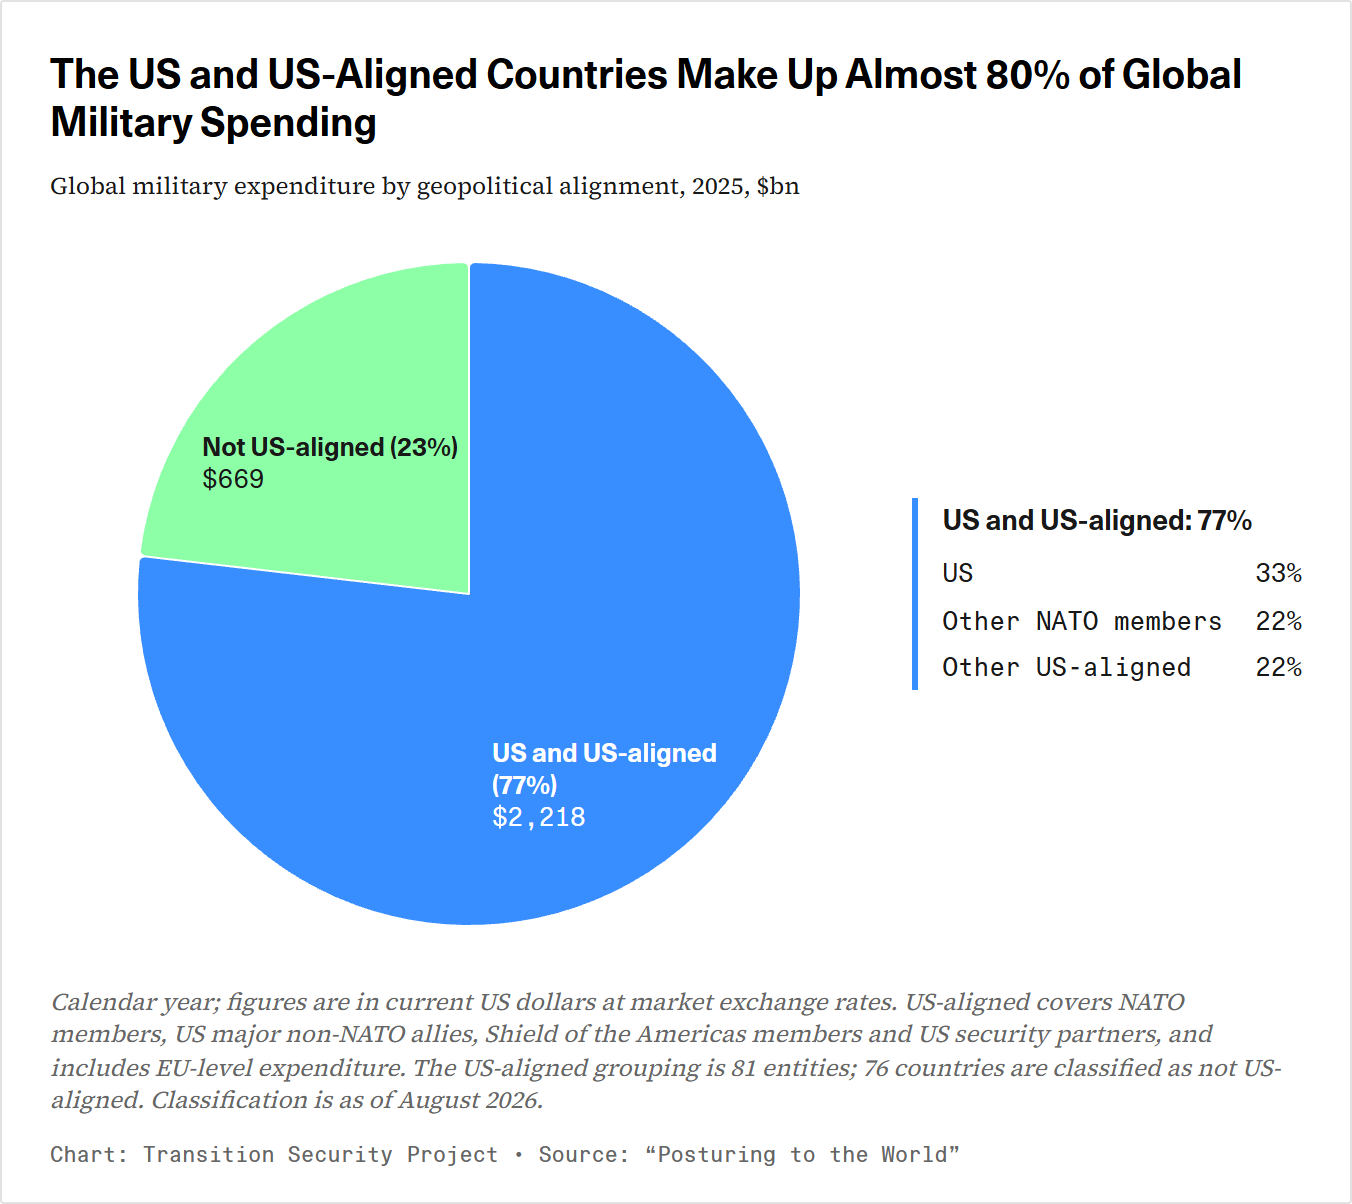
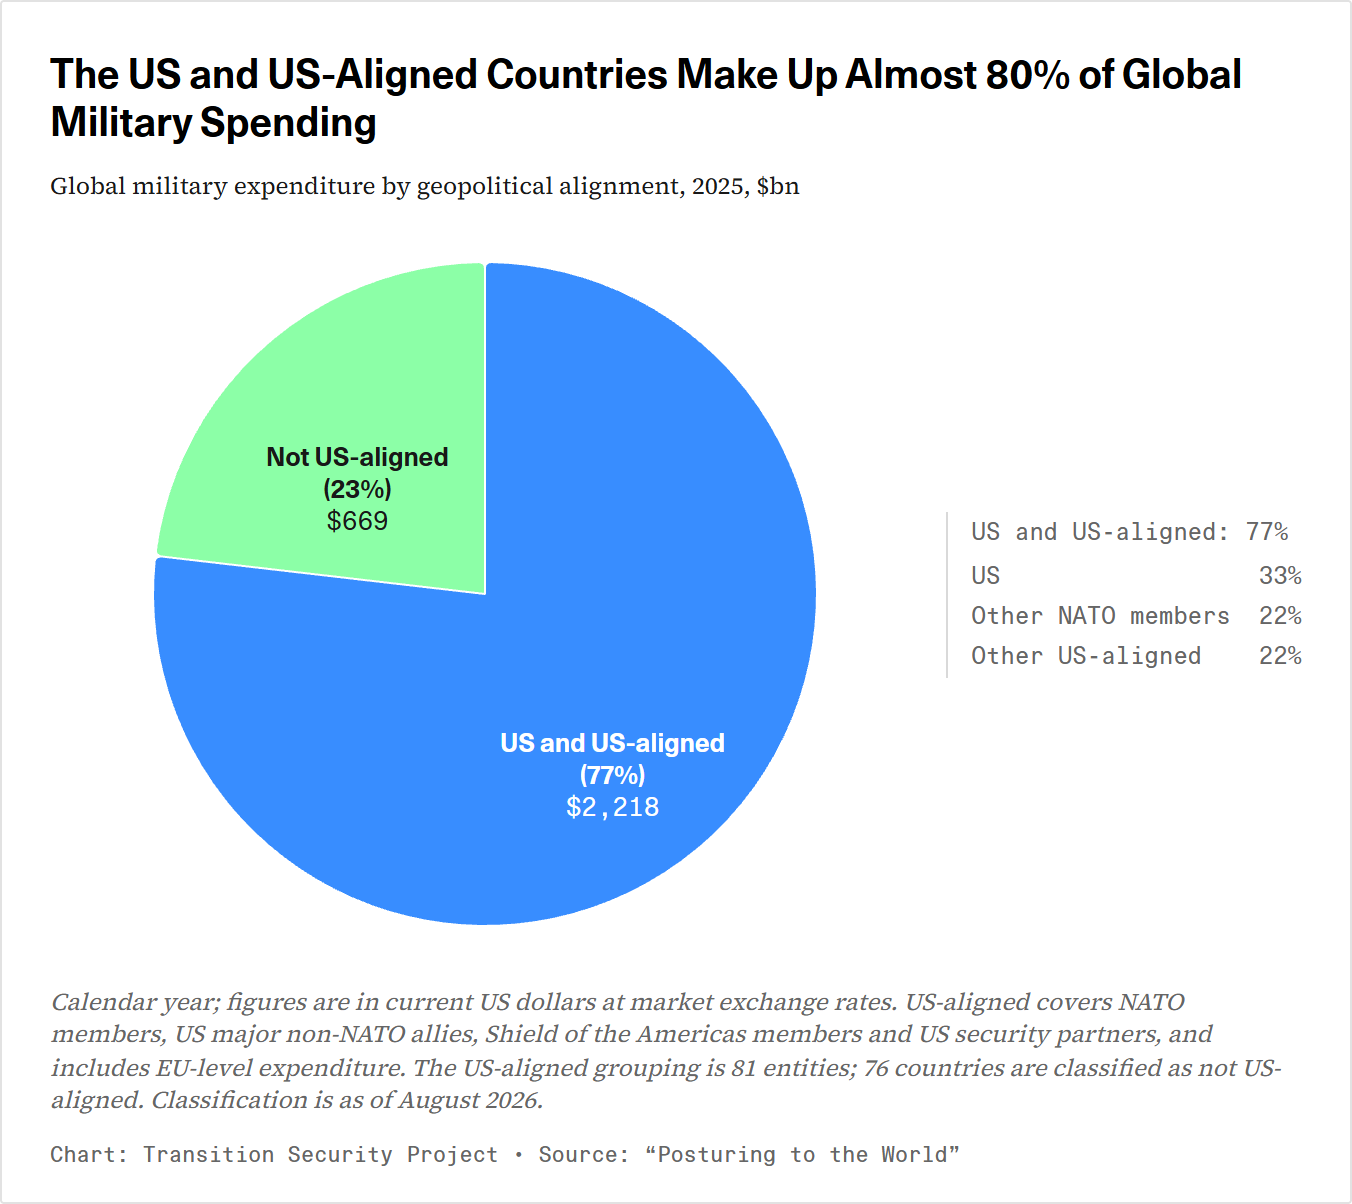
Update the separate pages

diff --git a/css/style.css b/css/style.css
@@ -19,12 +19,6 @@ body { margin: 0; color: var(--ink); font-family: var(--mono); font-size: 14px; 
 
 .card { position: relative; background: #ffffff; border: 1px solid #e2e2e2; border-radius: 2px;
   box-shadow: 0 1px 2px rgba(0, 0, 0, 0.05), 0 4px 16px rgba(0, 0, 0, 0.08); padding: 24px 24px 16px; }
-.card.numbered { padding-top: 66px; }
-/* The figure number, given by the embedding page as ?figure=2. */
-.figure-tab { position: absolute; top: -1px; left: 24px; min-width: 46px; padding: 10px 11px 16px; background: var(--blue);
-  color: #ffffff; font-family: var(--sans); font-weight: 700; font-size: 20px; line-height: 1; text-align: center;
-  clip-path: polygon(0 0, 100% 0, 100% 100%, 50% calc(100% - 7px), 0 100%); }
-.figure-tab[hidden] { display: none; }
 
 .visually-hidden { position: absolute; width: 1px; height: 1px; overflow: hidden; clip-path: inset(50%); white-space: nowrap; }
 .options { border-bottom: 1px solid var(--grid); margin: 0 0 16px; padding-bottom: 16px; }
@@ -45,7 +39,7 @@ body { margin: 0; color: var(--ink); font-family: var(--mono); font-size: 14px; 
 .seg input:checked + label { background: var(--blue-wash); border-color: var(--blue); color: var(--blue-ink); font-weight: 700; }
 .seg input:focus-visible + label { outline: 2px solid var(--blue); outline-offset: 2px; }
 
-.tiles { display: grid; grid-template-columns: repeat(auto-fit, minmax(128px, 1fr)); gap: 8px; margin: 16px 0 16px; }
+.tiles { display: grid; grid-template-columns: repeat(auto-fit, minmax(128px, 1fr)); gap: 8px; margin: 0 0 16px; }
 .tiles:empty { display: none; }
 .tile { background: var(--tile); border-radius: 4px; padding: 12px; display: flex; flex-direction: column; gap: 8px; }
 .tile p { margin: 0; }
@@ -59,9 +53,9 @@ body { margin: 0; color: var(--ink); font-family: var(--mono); font-size: 14px; 
 /* The pie with its breakdown beside it. */
 .pie-row { display: flex; align-items: center; gap: 12px; margin: 16px 0; }
 .pie-row .chart { flex: 1 1 auto; min-width: 0; margin: 0; }
-.inset { flex: 0 0 auto; max-width: 46%; border-left: 3px solid var(--blue); padding: 2px 0 2px 12px; font-size: 13px; }
-.inset-title { font-family: var(--sans); font-size: 14px; margin: 0 0 8px; }
-.inset dl { margin: 0; display: grid; grid-template-columns: auto auto; gap: 6px 16px; }
+.inset { flex: 0 0 auto; max-width: 46%; border-left: 1px solid var(--rule); padding: 2px 0 2px 12px; font-size: 12px; color: var(--note); }
+.inset-title { font-size: 12px; margin: 0 0 6px; }
+.inset dl { margin: 0; display: grid; grid-template-columns: auto auto; gap: 4px 14px; }
 .inset dt { margin: 0; }
 .inset dd { margin: 0; text-align: right; }
 /* Shown only if the data or Highcharts fail to load. */
@@ -78,8 +72,6 @@ body { margin: 0; color: var(--ink); font-family: var(--mono); font-size: 14px; 
 @media (max-width: 499px) {
   .dw { padding: 6px 8px 12px; }
   .card { padding: 18px 14px 14px; }
-  .card.numbered { padding-top: 58px; }
-  .figure-tab { left: 14px; }
   .tiles { grid-template-columns: 1fr; gap: 12px; }
   .options-title, .chart-title { font-size: 16px; }
   .group { display: block; }

diff --git a/js/historical.js b/js/historical.js
@@ -17,14 +17,11 @@ start(["model_inputs.json"], (inputs) => {
   const real = new Map(r.histYears.map((y, i) => [y, r.realHist[i]]));
   const LABEL = { fontSize: "12px", color: COLOURS.blue, textOutline: "3px #ffffff" };
 
-  // The plan years and the target years shaded, with a white line between them. Their labels sit at the foot of the
-  // bands, below the lines and clear of the last year's label; each ends at its band's right edge, the targets' on the
-  // bottom row and the plans' above it, so they never run into each other or off the plot.
-  const bandLabel = (text, y) => ({ text, align: "right", verticalAlign: "bottom", x: -3, y, useHTML: true,
-    style: { color: COLOURS.note, fontSize: "12px", whiteSpace: "nowrap", textOverflow: "clip" } });
-  let priceLabel;
+  // The plan years and the target years shaded, with a white line between them, and one label for both at the foot of
+  // the bands, ending at the plot's right edge, below the lines and clear of the last year's label (drawBandLabel).
+  let priceLabel, bandLabel;
   const chart = Highcharts.chart(el("chart"), {
-    chart: { type: "line", events: { render() { placePeakLabel(this); drawPriceLabel(this); } } },
+    chart: { type: "line", events: { render() { drawBandLabel(this); placePeakLabel(this); drawPriceLabel(this); } } },
     accessibility: { screenReaderSection: { beforeChartFormat: screenReaderHeading("Historical spending chart") },
       description: `UK military spending in real terms from ${lab(r.histYears[0])}, with the announced path to ${lab(LAST)} on its way to 3.5% of GDP.` },
     legend: { enabled: false },
@@ -39,8 +36,8 @@ start(["model_inputs.json"], (inputs) => {
       labels: { formatter() { return lab(this.value); } },
       accessibility: { description: "Financial year", rangeDescription: `From ${lab(1950)} to ${lab(LAST)}.` },
       plotBands: [
-        { from: c.PLAN_YEARS[0] - 0.5, to: PLAN_LAST + 0.5, color: COLOURS.band, label: bandLabel("Plans", -24) },
-        { from: PLAN_LAST + 0.5, to: LAST + 0.5, color: COLOURS.band, label: bandLabel("Targets", -8) },
+        { from: c.PLAN_YEARS[0] - 0.5, to: PLAN_LAST + 0.5, color: COLOURS.band },
+        { from: PLAN_LAST + 0.5, to: LAST + 0.5, color: COLOURS.band },
       ],
       plotLines: [{ value: PLAN_LAST + 0.5, color: "#ffffff", width: 2, zIndex: 1 }],
     },
@@ -75,6 +72,12 @@ start(["model_inputs.json"], (inputs) => {
       }
       return false;
     });
+  }
+
+  function drawBandLabel(ch) {
+    bandLabel?.destroy();
+    bandLabel = ch.renderer.text("Plans and targets", ch.plotLeft + ch.plotWidth - 4, ch.plotTop + ch.plotHeight - 8)
+      .attr({ align: "right", zIndex: 4 }).css({ color: COLOURS.note, fontSize: "12px" }).add();
   }
 
   // The Cold War peak's label stays where it is unless it covers the peak's dot or crosses a line; then it moves to just

diff --git a/js/alignment.js b/js/alignment.js
@@ -16,10 +16,10 @@ start(["alignment.json"], (d) => {
     ({ name, v, exact: pct(v), whole: Math.floor(pct(v)) }));
   let short = alignedPct - parts.reduce((s, p) => s + p.whole, 0);
   [...parts].sort((a, b) => (b.exact - b.whole) - (a.exact - a.whole)).forEach((p) => { if (short > 0) { p.whole += 1; short -= 1; } });
-  // Each slice's label: its name and share, broken where the name is long, then its value.
+  // Each slice's label, centred in it: its name, its share, then its value, a line each.
   const slices = [
     { name: "US and US-aligned", y: aligned, share: alignedPct, color: COLOURS.blue, text: "#ffffff", breakShare: true },
-    { name: "Not US-aligned", y: g.not_aligned, share: 100 - alignedPct, color: COLOURS.green, text: COLOURS.ink, breakShare: false },
+    { name: "Not US-aligned", y: g.not_aligned, share: 100 - alignedPct, color: COLOURS.green, text: COLOURS.ink, breakShare: true },
   ];
 
   const chart = Highcharts.chart(el("chart"), {
@@ -32,11 +32,11 @@ start(["alignment.json"], (d) => {
     tooltip: { formatter() { return `${this.point.name}: ${usd(this.y)}bn`; } },
     plotOptions: { pie: { startAngle: 0, borderWidth: 1, borderColor: "#ffffff", size: "100%",
       states: { hover: { halo: false, brightness: 0 }, inactive: { enabled: false } },
-      dataLabels: { enabled: true, distance: "-38%", crop: false, overflow: "allow", useHTML: false,
+      dataLabels: { enabled: true, distance: "-42%", crop: false, overflow: "allow", useHTML: true,
         formatter() {
-          const o = this.point.options, tight = this.series.chart.plotWidth < 400;
-          return `<span style="font-family:${SANS};font-weight:700">${this.point.name}${o.breakShare || tight ? "<br>" : " "}(${o.share}%)</span>`
-            + `<br>${usd(this.y)}`;
+          const o = this.point.options;
+          return `<div style="text-align:center;white-space:nowrap"><span style="font-family:${SANS};font-weight:700">${this.point.name}`
+            + `${o.breakShare ? "<br>" : " "}(${o.share}%)</span><br>${usd(this.y)}</div>`;
         },
         style: { fontSize: "13px", textOutline: "none", fontWeight: "normal", textAlign: "center", whiteSpace: "nowrap" } } } },
     series: [{ name: "Military expenditure", data: slices.map((s) => ({ name: s.name, y: s.y, share: s.share, breakShare: s.breakShare,

diff --git a/js/frame.js b/js/frame.js
@@ -1,14 +1,6 @@
-// The figure number and the page's height. A page that embeds this one can number it with ?figure=2 in its address.
-// Inside a frame, the page sends its height whenever it changes, in the message Datawrapper's embed code listens for,
-// so the frame grows and shrinks with the chart.
+// The page's height: inside a frame, the page sends it whenever it changes, in the message Datawrapper's embed code
+// listens for, so the frame grows and shrinks with the chart.
 export function setupFrame() {
-  const number = new URLSearchParams(location.search).get("figure");
-  const tab = document.querySelector('[data-el="figure"]');
-  if (tab && number && /^[0-9A-Za-z.]{1,4}$/.test(number)) {
-    tab.textContent = number;
-    tab.hidden = false;
-    tab.closest(".card")?.classList.add("numbered");
-  }
   if (window.parent === window) return;
   const id = document.body.dataset.chart;
   let sent = 0;

diff --git a/extra-spending/index.html b/extra-spending/index.html
@@ -14,7 +14,6 @@
 <body data-chart="extra-spending">
 <main class="dw">
   <article class="card">
-    <span class="figure-tab" data-el="figure" hidden></span>
     <p class="load-error" data-el="load-error" role="alert" hidden>The chart could not load. Reload the page, or check your connection.</p>
     <section data-chart-page hidden>
       <div class="options">
@@ -23,8 +22,8 @@
       </div>
       <h1 class="chart-title" data-el="title"></h1>
       <p class="description" data-el="description"></p>
-      <section class="tiles" data-el="tiles" aria-live="polite"></section>
       <div class="chart" data-el="chart"></div>
+      <section class="tiles" data-el="tiles" aria-live="polite"></section>
       <p class="notes" data-el="notes"></p>
       <footer class="footer">
         <span data-el="source"></span>

diff --git a/historical/index.html b/historical/index.html
@@ -13,13 +13,12 @@
 <body data-chart="historical">
 <main class="dw">
   <article class="card">
-    <span class="figure-tab" data-el="figure" hidden></span>
     <p class="load-error" data-el="load-error" role="alert" hidden>The chart could not load. Reload the page, or check your connection.</p>
     <section data-chart-page hidden>
       <h1 class="chart-title" data-el="title"></h1>
       <p class="description" data-el="description"></p>
-      <section class="tiles" data-el="tiles" aria-live="polite"></section>
       <div class="chart" data-el="chart"></div>
+      <section class="tiles" data-el="tiles" aria-live="polite"></section>
       <p class="notes" data-el="notes"></p>
       <footer class="footer">
         <span data-el="source"></span>

diff --git a/js/extra-spending.js b/js/extra-spending.js
@@ -160,7 +160,6 @@ start(["model_inputs.json"], (inputs) => {
     const i = r.years.length - 1;
     renderTiles(el("tiles"), [
       [`Extra over ${span} years`, bn(r.gap), `${lab(BASE + 1)}–${lab(LAST)}, ${units}`],
-      ["Extra a year, on average", bn(r.gap / YEARS), `Average over ${span} years, ${units}`],
       [`Extra in ${lab(LAST)} alone`, bn(r.gapByYear[i]), units[0].toUpperCase() + units.slice(1)],
       [`Spending in ${lab(LAST)}`, bn(r.announced[i]),
         `${r.sharesAnnounced[i].toFixed(1)}% of GDP, vs a baseline of ${bn(r.held[i])} (${r.sharesHeld[i].toFixed(1)}%)`],

diff --git a/per-person/index.html b/per-person/index.html
@@ -13,7 +13,6 @@
 <body data-chart="per-person">
 <main class="dw">
   <article class="card">
-    <span class="figure-tab" data-el="figure" hidden></span>
     <p class="load-error" data-el="load-error" role="alert" hidden>The chart could not load. Reload the page, or check your connection.</p>
     <section data-chart-page hidden>
       <h1 class="chart-title" data-el="title"></h1>

diff --git a/alignment/index.html b/alignment/index.html
@@ -13,7 +13,6 @@
 <body data-chart="alignment">
 <main class="dw">
   <article class="card">
-    <span class="figure-tab" data-el="figure" hidden></span>
     <p class="load-error" data-el="load-error" role="alert" hidden>The chart could not load. Reload the page, or check your connection.</p>
     <section data-chart-page hidden>
       <h1 class="chart-title" data-el="title"></h1>
